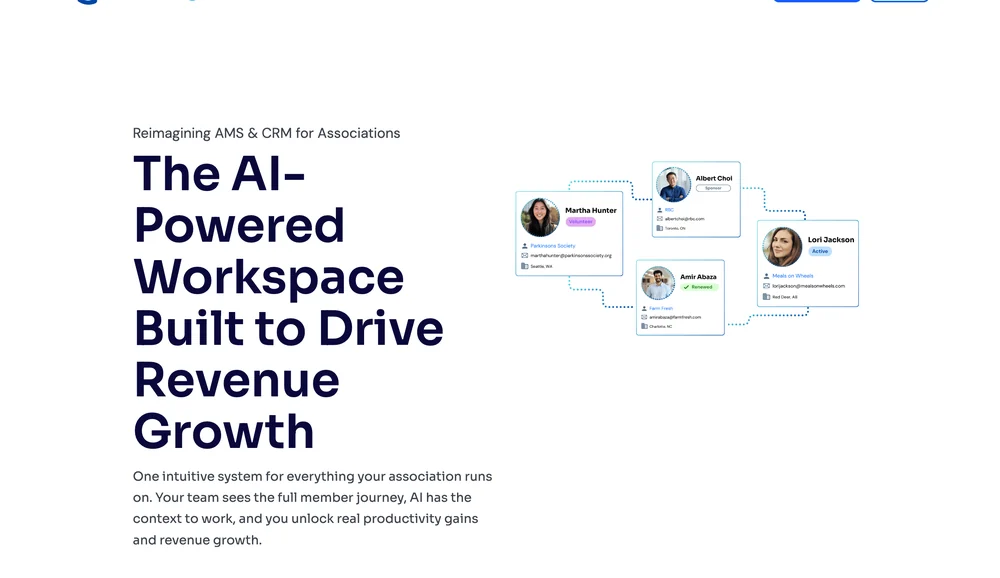
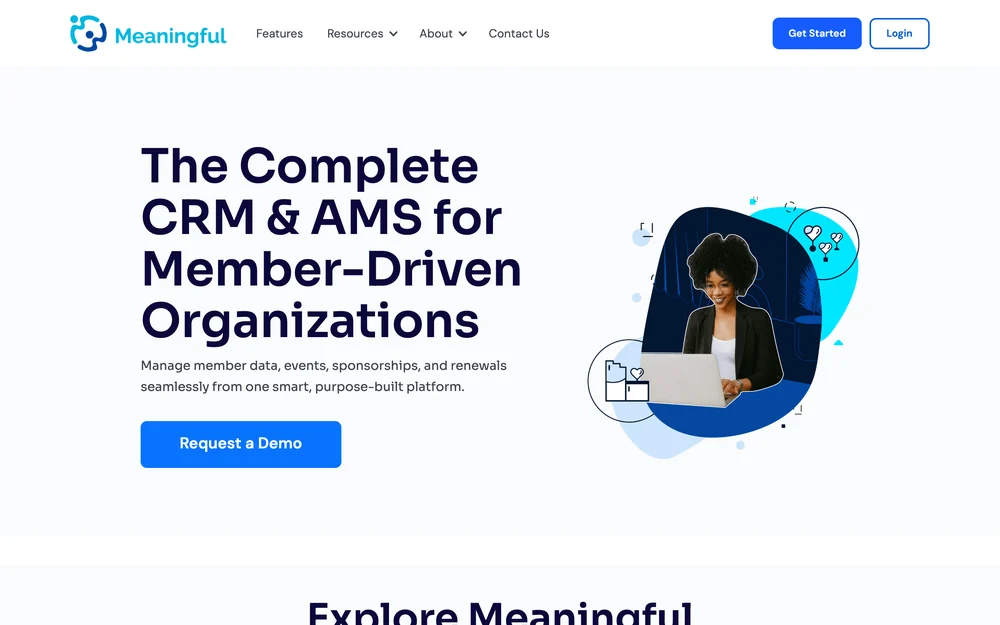
Refine work page with site screenshots and contact CTA

diff --git a/work.html b/work.html
@@ -4,7 +4,7 @@
 <meta charset="utf-8">
 <title>Our work — BadgerByte Software</title>
 <meta name="viewport" content="width=device-width, initial-scale=1">
-<meta name="description" content="Products BadgerByte Software has designed and built, including Carmaxx, Butter, Meaningful and Global Rugs.">
+<meta name="description" content="Products BadgerByte Software has designed and built, including Carmaxx, Butter and Meaningful.">
 <link rel="icon" type="image/svg+xml" href="assets/badgerbyte-logo.svg">
 <style>
 html{scroll-behavior:smooth}
@@ -13,12 +13,12 @@ html{overflow-x:hidden}
 @media (min-width:1024px){
 #page{min-width:1440px}
 header,#top,section[aria-label="Partners"]{padding-left:max(64px,calc((100% - 1312px)/2))!important;padding-right:max(64px,calc((100% - 1312px)/2))!important}
-#services,#capabilities,#insurance,#process,#work,#contact,footer{padding-left:max(120px,calc((100% - 1200px)/2))!important;padding-right:max(120px,calc((100% - 1200px)/2))!important}
+#services,#capabilities,#insurance,#process,#work,#cta,#contact,footer{padding-left:max(120px,calc((100% - 1200px)/2))!important;padding-right:max(120px,calc((100% - 1200px)/2))!important}
 }
 @media (max-width:1023px){
-header,#top,section[aria-label="Partners"],#services,#capabilities,#insurance,#process,#work,#contact,footer{padding-left:32px!important;padding-right:32px!important}
+header,#top,section[aria-label="Partners"],#services,#capabilities,#insurance,#process,#work,#cta,#contact,footer{padding-left:32px!important;padding-right:32px!important}
 #top{padding-top:72px!important;padding-bottom:64px!important;gap:48px!important}
-#services,#capabilities,#insurance,#process,#work,#contact{padding-top:80px!important;padding-bottom:80px!important}
+#services,#capabilities,#insurance,#process,#work,#cta,#contact{padding-top:80px!important;padding-bottom:80px!important}
 footer{padding-top:56px!important;padding-bottom:32px!important}
 #top h1{font-size:44px!important}
 #top p{font-size:17px!important}
@@ -40,9 +40,9 @@ footer{padding-top:56px!important;padding-bottom:32px!important}
 .r-feature{grid-template-columns:1fr!important;gap:32px!important;padding:32px!important}
 }
 @media (max-width:640px){
-header,#top,section[aria-label="Partners"],#services,#capabilities,#insurance,#process,#work,#contact,footer{padding-left:20px!important;padding-right:20px!important}
+header,#top,section[aria-label="Partners"],#services,#capabilities,#insurance,#process,#work,#cta,#contact,footer{padding-left:20px!important;padding-right:20px!important}
 #top{padding-top:48px!important;padding-bottom:48px!important;gap:36px!important}
-#services,#capabilities,#insurance,#process,#work,#contact{padding-top:56px!important;padding-bottom:56px!important}
+#services,#capabilities,#insurance,#process,#work,#cta,#contact{padding-top:56px!important;padding-bottom:56px!important}
 #top h1{font-size:32px!important}
 #top h1 br{display:none}
 #page h2{font-size:28px!important}
@@ -80,7 +80,7 @@ a{color:#111113;text-decoration:none}a:hover{color:#4F5BD5}
 <span>BadgerByte</span>
 </a>
 
-<div style="display: flex; align-items: center; gap: 20px;"><a href="work.html" style="font-size: 14px; font-weight: 500; color: #111113;">Work</a><a href="index.html#contact" style="font-size: 14px; font-weight: 500; color: rgb(255, 255, 255); background: rgb(17, 17, 19); height: 40px; padding: 0px 16px; border-radius: 8px; display: flex; align-items: center">Book a consultation</a></div>
+<div style="display: flex; align-items: center; gap: 20px;"><a href="work.html" style="font-size: 14px; font-weight: 500; color: #111113;">Our work</a><a href="index.html#contact" style="font-size: 14px; font-weight: 500; color: rgb(255, 255, 255); background: rgb(17, 17, 19); height: 40px; padding: 0px 16px; border-radius: 8px; display: flex; align-items: center">Book a consultation</a></div>
 </header>
 
 <section id="work" style="box-sizing: border-box; padding: 96px 120px 120px; display: flex; flex-direction: column; gap: 48px; background: #F7F7F5;">
@@ -96,7 +96,7 @@ a{color:#111113;text-decoration:none}a:hover{color:#4F5BD5}
 <p style="margin: 0; font-size: 15px; line-height: 1.6; color: #5B5D63;">Replacement cost insurance for BC drivers. When a vehicle is written off, the insurer pays what it is worth that day, not what a replacement costs. Carmaxx covers the difference, and the site works out the gap for any vehicle and term.</p>
 <a href="https://carmaxx.pages.dev/" target="_blank" rel="noopener noreferrer" aria-label="Visit the Carmaxx site, opens in a new tab" style="margin-top: 10px; font-size: 15px; font-weight: 500; color: #111113; display: flex; align-items: center; gap: 8px;">Visit the site<svg width="16" height="16" viewBox="0 0 24 24" fill="none" stroke="currentColor" stroke-width="2" stroke-linecap="round" stroke-linejoin="round" aria-hidden="true"><path d="M14 5h5v5M19 5l-8 8"></path><path d="M18 14v4a1 1 0 0 1-1 1H6a1 1 0 0 1-1-1V7a1 1 0 0 1 1-1h4"></path></svg></a>
 </div>
-<img src="assets/carmaxx-illustration.webp" alt="The Carmaxx coverage calculator, showing the gap between an insurer payout and replacement cost for a $50,000 vehicle" loading="lazy" style="width: 100%; height: auto; display: block; border-radius: 10px; border: 1px solid #E6E6E2;">
+<img src="assets/carmaxx-site.webp" alt="The Carmaxx site, showing the replacement cost headline and the coverage calculator" loading="lazy" style="width: 100%; height: auto; display: block; border-radius: 10px; border: 1px solid #E6E6E2; filter: grayscale(1); opacity: 0.75;">
 </article>
 <article class="r-feature" style="border: 1px solid #E6E6E2; border-radius: 16px; background: #FFFFFF; padding: 40px; display: grid; grid-template-columns: 1fr 0.82fr; gap: 48px; align-items: center;">
 <div style="display: flex; flex-direction: column; align-items: flex-start; gap: 14px;">
@@ -105,7 +105,7 @@ a{color:#111113;text-decoration:none}a:hover{color:#4F5BD5}
 <p style="margin: 0; font-size: 15px; line-height: 1.6; color: #5B5D63;">A platform that automates rebates and refunds for foodservice operators. Butter reads invoices, distributor files, vendor terms and GPO programs, finds the rebates an operator qualifies for, and tracks every claim through to the credit landing.</p>
 <a href="https://www.buttersystem.com/" target="_blank" rel="noopener noreferrer" aria-label="Visit the Butter site, opens in a new tab" style="margin-top: 10px; font-size: 15px; font-weight: 500; color: #111113; display: flex; align-items: center; gap: 8px;">Visit the site<svg width="16" height="16" viewBox="0 0 24 24" fill="none" stroke="currentColor" stroke-width="2" stroke-linecap="round" stroke-linejoin="round" aria-hidden="true"><path d="M14 5h5v5M19 5l-8 8"></path><path d="M18 14v4a1 1 0 0 1-1 1H6a1 1 0 0 1-1-1V7a1 1 0 0 1 1-1h4"></path></svg></a>
 </div>
-<img src="assets/butter.webp" alt="The Butter platform, showing rebate programs and claim progress for a foodservice operator" loading="lazy" style="width: 100%; height: auto; display: block; border-radius: 10px; border: 1px solid #E6E6E2;">
+<img src="assets/butter.webp" alt="The Butter platform, showing rebate programs and claim progress for a foodservice operator" loading="lazy" style="width: 100%; height: auto; display: block; border-radius: 10px; border: 1px solid #E6E6E2; filter: grayscale(1); opacity: 0.75;">
 </article>
 <article class="r-feature" style="border: 1px solid #E6E6E2; border-radius: 16px; background: #FFFFFF; padding: 40px; display: grid; grid-template-columns: 1fr 0.82fr; gap: 48px; align-items: center;">
 <div style="display: flex; flex-direction: column; align-items: flex-start; gap: 14px;">
@@ -114,17 +114,19 @@ a{color:#111113;text-decoration:none}a:hover{color:#4F5BD5}
 <p style="margin: 0; font-size: 15px; line-height: 1.6; color: #5B5D63;">An association management system and CRM for associations and nonprofits. Members, sponsors, events and communications sit in one workspace, so a team can see the whole member journey instead of piecing it together across tools.</p>
 <a href="https://www.meaningful.ca/" target="_blank" rel="noopener noreferrer" aria-label="Visit the Meaningful site, opens in a new tab" style="margin-top: 10px; font-size: 15px; font-weight: 500; color: #111113; display: flex; align-items: center; gap: 8px;">Visit the site<svg width="16" height="16" viewBox="0 0 24 24" fill="none" stroke="currentColor" stroke-width="2" stroke-linecap="round" stroke-linejoin="round" aria-hidden="true"><path d="M14 5h5v5M19 5l-8 8"></path><path d="M18 14v4a1 1 0 0 1-1 1H6a1 1 0 0 1-1-1V7a1 1 0 0 1 1-1h4"></path></svg></a>
 </div>
-<img src="assets/meaningful.webp" alt="The Meaningful workspace, showing connected member records for an association" loading="lazy" style="width: 100%; height: auto; display: block; border-radius: 10px; border: 1px solid #E6E6E2;">
-</article>
-<article class="r-feature" style="border: 1px solid #E6E6E2; border-radius: 16px; background: #FFFFFF; padding: 40px; display: grid; grid-template-columns: 1fr 0.82fr; gap: 48px; align-items: center;">
-<div style="display: flex; flex-direction: column; align-items: flex-start; gap: 14px;">
-<span style="display: flex; align-items: center; gap: 7px; height: 24px; padding: 0 10px; border-radius: 999px; background: #FBF1DF; color: #8A5A12; font-size: 12px; font-weight: 500;"><span style="width: 6px; height: 6px; border-radius: 50%; background: #8A5A12;"></span>In development</span>
-<h3 style="margin: 6px 0 2px; font-size: 26px; font-weight: 500; letter-spacing: -0.02em;">Global Rugs</h3>
-<p style="margin: 0; font-size: 15px; line-height: 1.6; color: #5B5D63;">An online store for a rug retailer, in build on Shopify. The storefront is behind a password while we finish it, so there is nothing to show here yet.</p>
-</div>
-<div style="aspect-ratio: 16 / 10; border-radius: 10px; border: 1.5px dashed #D8D8D3; background: #F7F7F5; display: flex; align-items: center; justify-content: center;"><span style="font-family: 'Geist Mono', ui-monospace, monospace; font-size: 12px; color: #8E9097; letter-spacing: 0.04em;">IN BUILD</span></div>
+<img src="assets/meaningful.webp" alt="The Meaningful features page, showing its CRM and AMS for member-driven organizations" loading="lazy" style="width: 100%; height: auto; display: block; border-radius: 10px; border: 1px solid #E6E6E2; filter: grayscale(1); opacity: 0.75;">
 </article>
 </div>
+</section>
+
+<!-- CTA -->
+<section id="cta" class="r-split" style="box-sizing: border-box; padding: 96px 120px; background: #111113; color: #F7F7F5; display: flex; align-items: center; justify-content: space-between; gap: 64px;">
+<div style="display: flex; flex-direction: column; gap: 16px; max-width: 640px;">
+<span style="font-family: 'Geist Mono', ui-monospace, monospace; font-size: 13px; color: #A9AEF0; letter-spacing: 0.02em;">What is next</span>
+<h2 style="margin: 0; font-size: 44px; line-height: 1.06; font-weight: 500; letter-spacing: -0.04em; color: #FFFFFF;">Let us build your next solution</h2>
+<p style="margin: 0; font-size: 17px; line-height: 1.6; color: #B4B6BC;">Tell us what you are trying to fix, and we will help you decide whether, and how, we can help.</p>
+</div>
+<a href="index.html#contact" style="flex-shrink: 0; height: 48px; padding: 0 24px; border-radius: 10px; background: #FFFFFF; color: #111113; font-size: 15px; font-weight: 500; display: flex; align-items: center; gap: 10px;">Contact us<svg width="16" height="16" viewBox="0 0 24 24" fill="none" stroke="currentColor" stroke-width="2" stroke-linecap="round" stroke-linejoin="round" aria-hidden="true"><path d="M5 12h14M13 6l6 6-6 6"></path></svg></a>
 </section>
 
 <footer id="about" style="flex-shrink: 0; box-sizing: border-box; padding: 72px 120px 40px; background: #111113; color: #B4B6BC; border-top: 1px solid #26262B; display: flex; flex-direction: column; gap: 56px;">

diff --git a/index.html b/index.html
@@ -79,7 +79,7 @@ a{color:#111113;text-decoration:none}a:hover{color:#4F5BD5}
 <span>BadgerByte</span>
 </a>
 
-<div style="display: flex; align-items: center; gap: 20px;"><a href="work.html" style="font-size: 14px; font-weight: 500; color: #111113;">Work</a><a href="#contact" style="font-size: 14px; font-weight: 500; color: rgb(255, 255, 255); background: rgb(17, 17, 19); height: 40px; padding: 0px 16px; border-radius: 8px; display: flex; align-items: center">Book a consultation</a></div>
+<div style="display: flex; align-items: center; gap: 20px;"><a href="work.html" style="font-size: 14px; font-weight: 500; color: #111113;">Our work</a><a href="#contact" style="font-size: 14px; font-weight: 500; color: rgb(255, 255, 255); background: rgb(17, 17, 19); height: 40px; padding: 0px 16px; border-radius: 8px; display: flex; align-items: center">Book a consultation</a></div>
 </header>
 
 <!-- HERO -->
